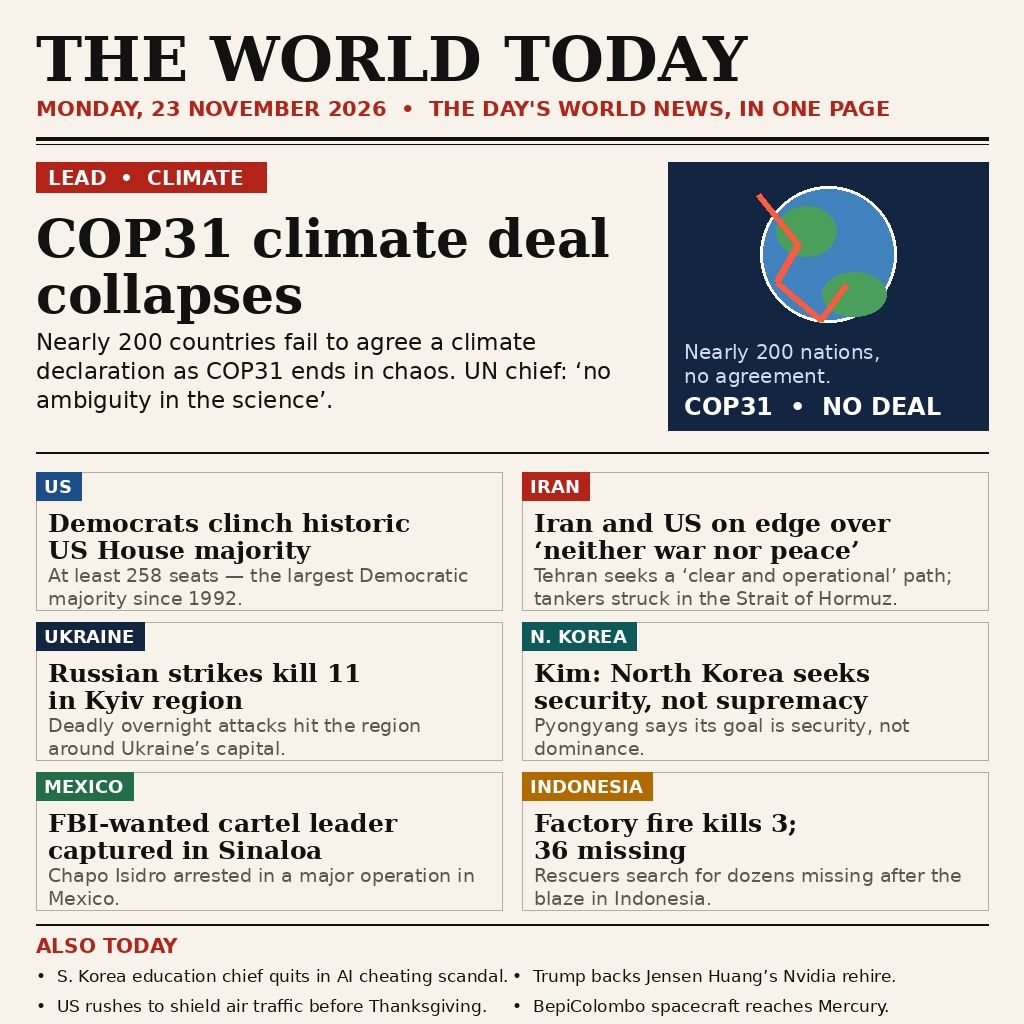
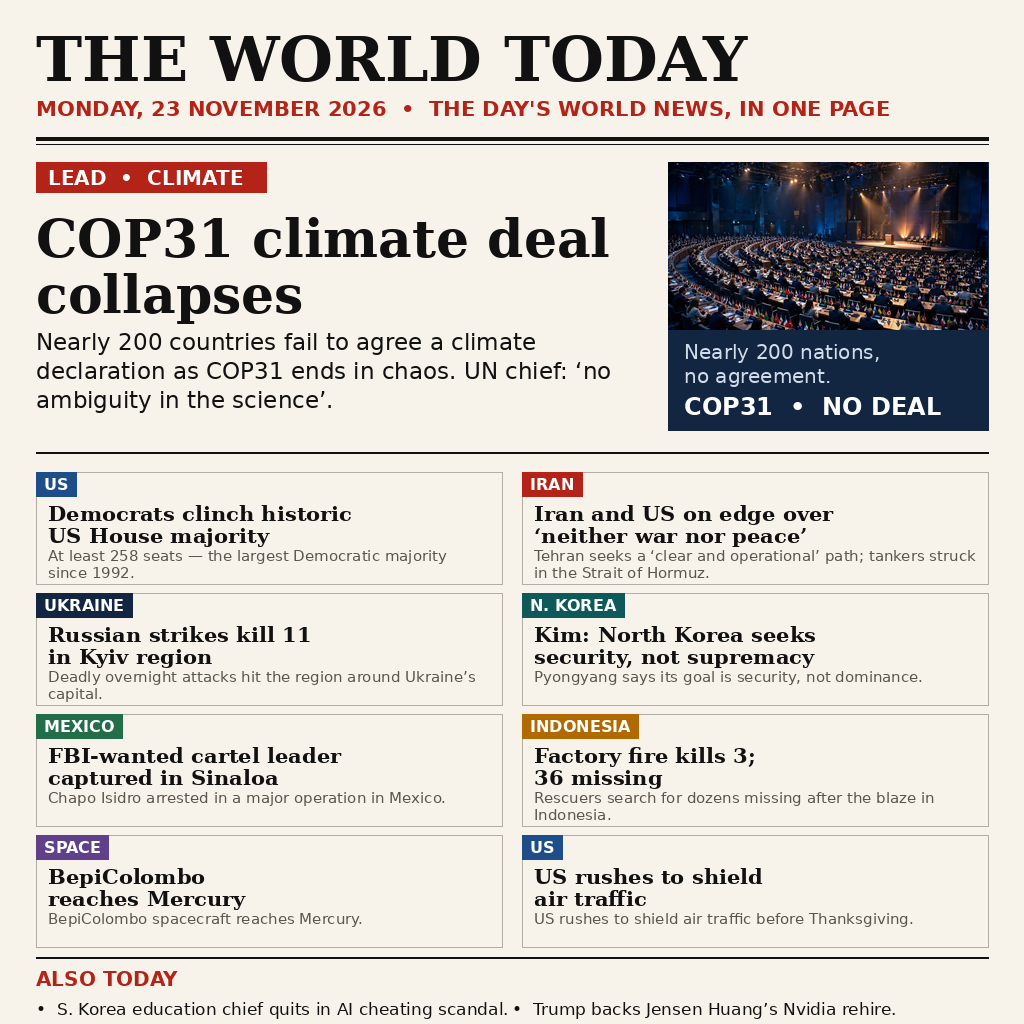
news-image v2: photo-led front page, 8 stories

Changed region(s): [[0.0312, 0.4688, 0.9375, 1.0], [0.625, 0.1562, 0.9688, 0.3438], [0.9375, 0.9062, 0.9688, 0.9375]]

diff --git a/build_image.py b/build_image.py
@@ -2,9 +2,16 @@
 """Build the news-image-20261123 front page deterministically with PIL.
 1024x1024, newspaper front-page style. All text from the verified list
 supplied in the task; no invented dates, numbers or quotes.
+
+v2: photorealistic summit-hall photo leads the COP31 panel (replacing the
+cartoon globe); the story grid grows to 8 stories (BepiColombo and the
+Thanksgiving air-traffic story promoted from ALSO TODAY).
 """
 import textwrap
+from pathlib import Path
 from PIL import Image, ImageDraw, ImageFont
+
+HERE = Path(__file__).resolve().parent
 
 W = H = 1024
 PAPER = (247, 243, 234)
@@ -75,24 +82,30 @@ y = draw_wrapped(d, lead_x, y,
     "Nearly 200 countries fail to agree a climate declaration as COP31 ends in chaos. UN chief: \u2018no ambiguity in the science\u2019.",
     font(SANS, 23), lead_w, leading=1.3)
 
-# Lead graphic panel (right)
+# Lead graphic panel (right): photorealistic summit-hall photo on top,
+# caption text kept exactly as v1 in the navy strip below it.
 gx, gy, gw, gh = 668, 162, 320, 268
 d.rectangle([(gx, gy), (gx + gw, gy + gh)], fill=NAVY)
-# globe
-cx, cy, r = gx + 160, gy + 92, 68
-d.ellipse([(cx - r, cy - r), (cx + r, cy + r)], fill=(64, 130, 190), outline=(255, 255, 255), width=3)
-d.ellipse([(cx - 52, cy - 48), (cx + 8, cy + 2)], fill=(74, 160, 90))
-d.ellipse([(cx - 6, cy + 18), (cx + 58, cy + 62)], fill=(74, 160, 90))
-# crack across globe
-d.line([(cx - 70, cy - 60), (cx - 30, cy - 10), (cx - 52, cy + 28), (cx - 8, cy + 66), (cx + 18, cy + 30)],
-       fill=(255, 90, 60), width=6)
+photo = Image.open(HERE / "cop31-photo.webp").convert("RGB")
+pw, ph = photo.size
+target = 320 / 168  # photo region aspect
+if pw / ph > target:
+    nw = int(ph * target)
+    x0 = (pw - nw) // 2
+    photo = photo.crop((x0, 0, x0 + nw, ph))
+else:
+    nh = int(pw / target)
+    y0 = (ph - nh) // 2
+    photo = photo.crop((0, y0, pw, y0 + nh))
+photo = photo.resize((320, 168), Image.LANCZOS)
+img.paste(photo, (gx, gy))
 d.text((gx + 16, gy + gh - 38), "COP31  •  NO DEAL", font=font(SANS_B, 24), fill=(255, 255, 255))
 d.text((gx + 16, gy + 178), "Nearly 200 nations,", font=font(SANS, 20), fill=(210, 220, 235))
 d.text((gx + 16, gy + 202), "no agreement.", font=font(SANS, 20), fill=(210, 220, 235))
 
 d.line([(M, 452), (X1, 452)], fill=INK, width=2)
 
-# ---- Grid: 6 stories, 2 cols x 3 rows ----
+# ---- Grid: 8 stories, 2 cols x 4 rows ----
 stories = [
     ("US", BLUE, "Democrats clinch historic\nUS House majority",
      "At least 258 seats \u2014 the largest Democratic majority since 1992."),
@@ -106,30 +119,32 @@ stories = [
      "Chapo Isidro arrested in a major operation in Mexico."),
     ("INDONESIA", AMBER, "Factory fire kills 3;\n36 missing",
      "Rescuers search for dozens missing after the blaze in Indonesia."),
+    ("SPACE", (96, 64, 138), "BepiColombo\nreaches Mercury",
+     "BepiColombo spacecraft reaches Mercury."),
+    ("US", BLUE, "US rushes to shield\nair traffic",
+     "US rushes to shield air traffic before Thanksgiving."),
 ]
 gx0, gy0 = M, 472
-cell_w, cell_h = 466, 138
-col_gap, row_gap = 20, 12
+cell_w, cell_h = 466, 112
+col_gap, row_gap = 20, 9
 for i, (tag, colour, head, summ) in enumerate(stories):
     cx0 = gx0 + (i % 2) * (cell_w + col_gap)
     cy0 = gy0 + (i // 2) * (cell_h + row_gap)
     d.rectangle([(cx0, cy0), (cx0 + cell_w, cy0 + cell_h)], outline=(180, 174, 162), width=1)
-    tag_w = int(d.textlength(tag, font=font(SANS_B, 18))) + 18
-    d.rectangle([(cx0, cy0), (cx0 + tag_w, cy0 + 28)], fill=colour)
-    d.text((cx0 + 8, cy0 + 4), tag, font=font(SANS_B, 18), fill=(255, 255, 255))
-    ty = cy0 + 36
-    ty = draw_wrapped(d, cx0 + 12, ty, head, font(SERIF_B, 25), cell_w - 24, leading=1.08)
-    draw_wrapped(d, cx0 + 12, ty + 2, summ, font(SANS, 19), cell_w - 24, fill=GREY, leading=1.22)
+    tag_w = int(d.textlength(tag, font=font(SANS_B, 16))) + 16
+    d.rectangle([(cx0, cy0), (cx0 + tag_w, cy0 + 24)], fill=colour)
+    d.text((cx0 + 8, cy0 + 3), tag, font=font(SANS_B, 16), fill=(255, 255, 255))
+    ty = cy0 + 29
+    ty = draw_wrapped(d, cx0 + 12, ty, head, font(SERIF_B, 21), cell_w - 24, leading=1.06)
+    draw_wrapped(d, cx0 + 12, ty + 2, summ, font(SANS, 15), cell_w - 24, fill=GREY, leading=1.18)
 
 # ---- Footer: also today ----
-fy = 472 + 3 * cell_h + 2 * row_gap + 14
+fy = 472 + 4 * cell_h + 3 * row_gap + 10
 d.line([(M, fy), (X1, fy)], fill=INK, width=2)
 d.text((M, fy + 10), "ALSO TODAY", font=font(SANS_B, 20), fill=RED)
 items = [
     "S. Korea education chief quits in AI cheating scandal.",
     "Trump backs Jensen Huang\u2019s Nvidia rehire.",
-    "US rushes to shield air traffic before Thanksgiving.",
-    "BepiColombo spacecraft reaches Mercury.",
 ]
 iy = fy + 42
 for j, it in enumerate(items):
@@ -137,5 +152,5 @@ for j, it in enumerate(items):
     iy2 = iy + (j // 2) * 30
     d.text((ix, iy2), "\u2022  " + it, font=font(SANS, 17), fill=INK)
 
-img.save("/home/hatch/workspace/makefun-news-image/work/entry.png", "PNG", optimize=True)
+img.save(HERE / "entry.png", "PNG", optimize=True)
 print("saved")
